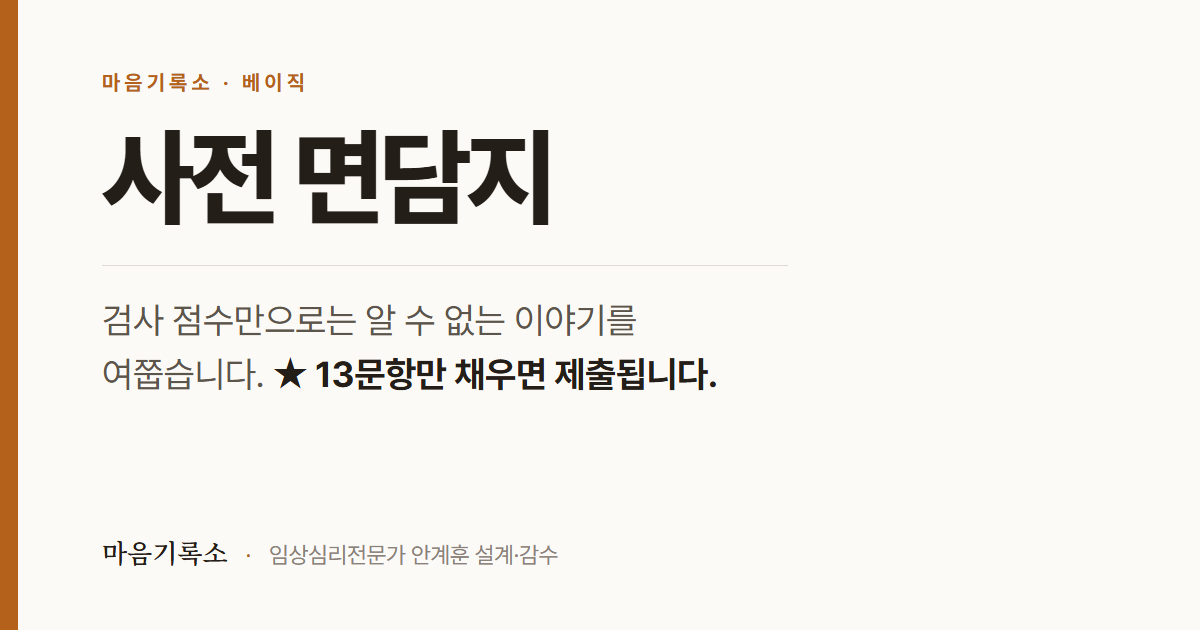
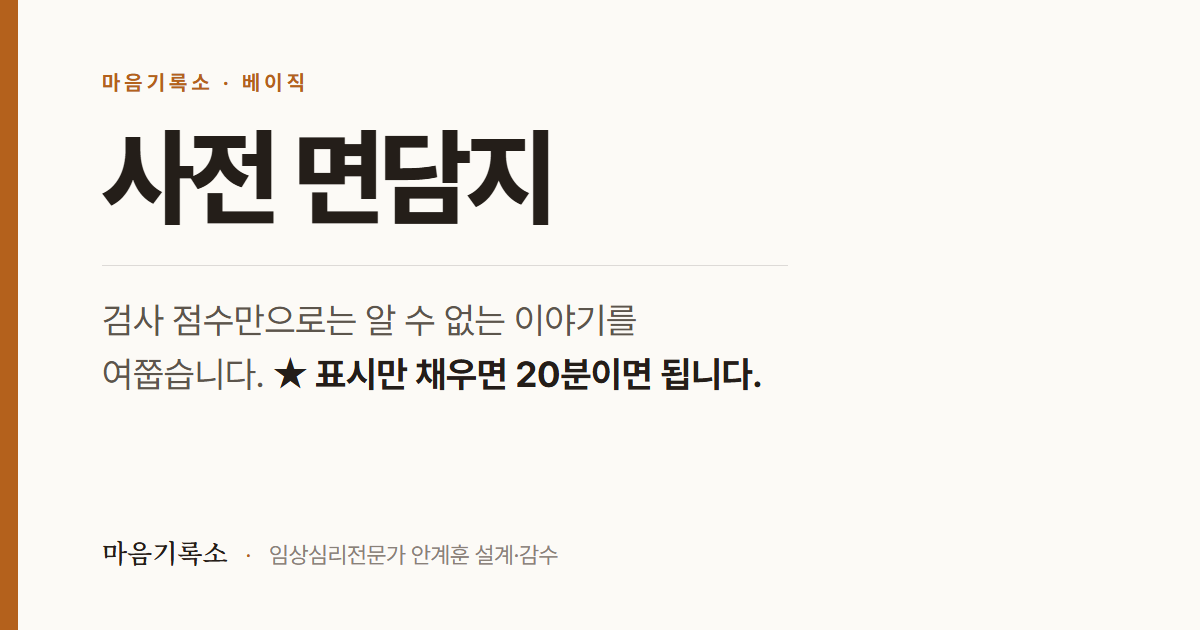
사전 면담지 폼: 06 파트 미표시 버그 수정 + 필수 13→33 증량
버그 2건
- .reveal 애니메이션 제거: opacity:0 이 기본값이라 IntersectionObserver 가
  안 돌면 문항이 통째로 안 보였다. F파트 카드 6528px vs 폰 화면 700px 라
  threshold .12(면적 12%)를 영원히 못 채워 06 파트 전체가 투명하게 남았다.
  임계값만 고치면 인앱브라우저·저사양 폰에서 재발하므로 애니메이션 자체를 껐다.
- C3-7·D10 minlen 20 → 10: helper 가 그대로 적으라고 시킨 문장이
  각각 18자·13자라 시킨 대로 쓰면 제출이 차단됐다.

필수 문항 13 → 33 (긴 서술형은 13개 그대로, 늘어난 20개는 클릭·한 줄)
- 기본 정보 승격: A1-2 생년월일 · A1-3 성별 · A1-4 기관 · A2-1 형제
  · A2-2 동거가족 · A3-1 관계. 나이 없이는 맞춤 책을 쓸 수 없는데 선택이었다.
- 라디오 승격: C3-1·C3-2·C3-5·C3-6·C3-8·D5·D13·F12·F15·F17
- 서술형 승격: D8·E2·E4(minlen 30) · F2(길이 강제 없음)
- 도달 불가 minlen 하향: C3-3·D1·E3 80 → 50

인라인 검증 추가 (blur 시점). 제출 때만 검사하면 65분 쓰고 몰아서 튕긴다.

helper 문구 3건 교체
- D11: 예시 사물 교체. 크레용·줄넘기는 이미 렌더된 샘플 삽화의 사물이라,
  아이마다 새로 그리는 유일한 그림이 예시로 수렴할 위험이 있었다.
- C3-7: 예시 2개로(하나는 안 예쁜 말), 지키지 못하던 약속 문구 하향.
- D10: 탈출로를 '없다고 적어라'에서 '대신 이걸 적어라'로.

안내 문구: 개수 대신 시간으로("★ 표시만 채우면 20분"). OG 카드 재생성.

Changed region(s): [[0.2467, 0.573, 0.6475, 0.6333]]

diff --git a/form/index.html b/form/index.html
@@ -6,14 +6,14 @@
 <title>사전 면담지 · 마음기록소</title>
 <link rel="canonical" href="https://doencourage.com/form/" />
 <meta name="robots" content="noindex, follow" />
-<meta name="description" content="검사 점수만으로는 알 수 없는 이야기를 여쭙습니다. ★ 13문항만 채우면 제출됩니다." />
+<meta name="description" content="검사 점수만으로는 알 수 없는 이야기를 여쭙습니다. ★ 표시만 채우면 20분이면 됩니다." />
 <!-- 카카오톡·SNS 링크 미리보기 카드 (noindex와 무관하게 동작) -->
 <meta property="og:type" content="website" />
 <meta property="og:site_name" content="마음기록소" />
 <meta property="og:locale" content="ko_KR" />
 <meta property="og:url" content="https://doencourage.com/form/" />
 <meta property="og:title" content="사전 면담지 · 마음기록소" />
-<meta property="og:description" content="검사 점수만으로는 알 수 없는 이야기를 여쭙습니다. ★ 13문항만 채우면 제출됩니다." />
+<meta property="og:description" content="검사 점수만으로는 알 수 없는 이야기를 여쭙습니다. ★ 표시만 채우면 20분이면 됩니다." />
 <meta property="og:image" content="https://doencourage.com/images/og-form.png" />
 <meta property="og:image:width" content="1200" />
 <meta property="og:image:height" content="630" />
@@ -372,7 +372,13 @@ fieldset{border:none}
 }
 
 /* ===== reveal ===== */
-.reveal{opacity:0; transform:translateY(12px); transition:opacity .7s var(--ease), transform .7s var(--ease)}
+/* 폼에서는 등장 애니메이션을 쓰지 않는다 (2026-07-28).
+   opacity:0 을 기본값으로 두면 IntersectionObserver 가 어떤 이유로든 안 돌 때
+   문항이 통째로 안 보인다. 실제 사고: F파트 카드가 6528px 라 폰 화면(700px)으로는
+   threshold .12 를 영원히 못 채워 06 파트 전체가 투명하게 남았다.
+   설문에서 페이드인의 값어치보다 '안 보이는 폼'의 위험이 훨씬 크다.
+   JS(setupReveal)는 그대로 둬도 무해하다 — .in 이 붙어도 결과가 같다. */
+.reveal{opacity:1; transform:none}
 .reveal.in{opacity:1; transform:none}
 
 @media (max-width:520px){
@@ -607,7 +613,7 @@ function requiredFieldId(){ return respondentType === 'self_adult' ? 'P1-1' : 'A
 function respondentName(flat){ return (flat && flat[requiredFieldId()]) || ''; }
 
 /* ---- 폼 스키마 (양육자용) ---- */
-const SCHEMA_GUARDIAN = {"intro": {"title": "베이직 사전 면담 질문지", "subtitle": "부모(주양육자) 1인이 자녀에 대해 작성하는 사전 비대면 면담 질문지입니다.", "guidance": ["총 75문항(★ 필수 13 · 선택 62), 약 65분이 소요됩니다. 한 번에 다 쓰지 않으셔도 돼요 — 중간 저장이 됩니다.", "가능하면 삼성인터넷·크롬·사파리 같은 브라우저에서, 한 기기·한 곳에서 끝까지 작성해 주세요. 중간에 닫아도 같은 브라우저로 다시 열면 이어서 쓸 수 있어요.", "★ 필수 문항은 책의 뼈대가 됩니다. 꼭 채워 주세요.", "나머지는 선택이지만, 많이 적어 주실수록 책이 깊어집니다.", "서술형은 3~5문장, 길이보다 구체적인 장면 묘사가 중요합니다. 완벽하게 쓰지 않으셔도 됩니다."]}, "parts": [{"id": "A", "title": "기본 정보", "intro": "", "fields": [{"id": "A0", "label": "개인정보 수집·이용 동의 — 적어 주신 내용과 자녀 정보는 맞춤 책 제작과 해석 상담 목적에만 사용하고, 외부에 공개·공유하지 않으며, 제작 완료 후 요청하시면 파기합니다.", "type": "radio", "required": true, "options": ["동의합니다"]}, {"id": "A1-1", "label": "자녀의 이름을 적어 주세요.", "type": "text", "required": true}, {"id": "A1-2", "label": "자녀의 출생연월일을 적어 주세요.", "type": "text", "required": false, "helper": "(예: 2018년 5월 5일)"}, {"id": "A1-3", "label": "자녀의 성별을 알려 주세요.", "type": "radio", "required": false, "options": ["남", "여"]}, {"id": "A1-4", "label": "현재 다니고 있는 기관을 알려 주세요.", "type": "text", "required": false, "helper": "(예: ○○초등학교 2학년 / ○○어린이집 / ○○유치원 / 미취학 / 가정보육)"}, {"id": "A2-1", "label": "자녀의 형제자매 관계를 알려 주세요.", "type": "text", "required": false, "helper": "(예: 외동 / 첫째, 5살 동생 있음 / 둘째, 8살 형 있음)"}, {"id": "A2-2", "label": "현재 자녀와 함께 거주하시는 분들을 적어 주세요.", "type": "text", "required": false, "helper": "(예: 아빠·엄마·자녀 / 엄마·자녀 / 엄마·자녀·외할머니)"}, {"id": "A3-1", "label": "본 질문지를 작성하시는 분은 자녀와 어떤 관계이신가요?", "type": "relation", "required": false, "options": ["어머니", "아버지", "그 외"]}, {"id": "A3-2", "label": "자녀와 함께 보내는 시간이 일주일에 대략 몇 시간 정도 되시나요?", "type": "text", "required": false}]}, {"id": "B", "title": "검사 동기와 기대", "intro": "검사실 문을 두드리신 마음을 들려주세요.", "fields": [{"id": "B1", "label": "오늘 검사를 받으시려는 가장 큰 이유 또는 자녀에 대한 현재의 고민은 무엇인가요?", "type": "textarea", "required": true, "helper": "(서술형, 3~5문장)", "minlen": 40}, {"id": "B2", "label": "이 검사를 통해 가장 알고 싶으신 것 한 가지를 꼽는다면 무엇인가요?", "type": "textarea", "required": false, "helper": "(서술형, 1~2문장)"}, {"id": "B3", "label": "자녀를 떠올렸을 때 부모님 마음에 가장 자주 떠오르는 단어 세 개를 적어 주세요.", "type": "words3", "required": false, "helper": "(예: 사랑스러움, 걱정, 미안함, 기특함, 답답함 등)"}, {"id": "B4", "label": "급변하는 세상 속에서도 자녀가 자신만의 중심을 잃지 않고 살아가기 위해, 부모님이 가장 길러 주고 싶은 자녀 내면의 힘이나 가치는 무엇인가요?", "type": "textarea", "required": false, "helper": "(서술형, 1~3문장)"}]}, {"id": "C", "title": "발달사·기질 단서", "intro": "자녀의 어릴 때부터 지금까지의 모습을 짧게 들려주세요.", "fields": [{"id": "C1-1", "label": "자녀가 갓난아기였을 때 어떤 아기였나요?", "type": "textarea", "required": false, "helper": "(예: 잘 잤다, 자주 깼다, 순했다, 예민했다 등) (서술형, 2~3문장)"}, {"id": "C1-2", "label": "새로운 사람·새로운 환경에 처음 노출되었을 때 어떻게 반응했나요?", "type": "textarea", "required": false, "helper": "(서술형, 1~2문장)"}, {"id": "C2-1", "label": "걷기 시작하면서 자녀의 활동성은 어떠했나요?", "type": "textarea", "required": false, "helper": "(예: 한자리에 가만히 못 있는 아이, 한 가지를 오래 들여다보는 아이, 둘이 섞인 아이 등) (서술형, 1~2문장)"}, {"id": "C2-2", "label": "처음 어린이집·놀이방 같은 곳에 갔을 때, 어떤 적응 패턴을 보였나요?", "type": "textarea", "required": false, "helper": "(예: 첫날부터 잘 어울림, 한 달쯤 운 후 적응, 지금도 가끔 어려움 등) (서술형, 2~3문장)"}, {"id": "C3-1", "label": "새로운 장소에 가거나 낯선 사람을 만날 때, 자녀의 첫 반응은 주로 어떤가요?", "type": "radio", "required": false, "options": ["호기심을 보이며 적극적으로 다가가는 편", "잠시 살펴본 후 자기 페이스로 다가가는 편", "충분히 관찰하며 신중하게 움직이는 편", "부모 곁에서 한참 머물다가 천천히 들어가는 편"], "followupTextarea": true, "followupHelper": "추가로 떠오르는 장면이 있다면 적어 주세요"}, {"id": "C3-2", "label": "무언가 잘 안 풀리거나 어려운 문제에 부딪혔을 때, 자녀는 보통 어떻게 그 상황을 지나가나요?", "type": "radio", "required": false, "options": ["끝까지 해보려 함", "짜증을 내거나 던져버림", "부모에게 대신 해 달라고 함", "우는 등 감정 표현 후 다시 시도", "슬쩍 다른 것으로 옮겨 감"], "followupTextarea": true, "followupHelper": "가장 최근에 본 장면 한 가지를 묘사해 주세요"}, {"id": "C3-3", "label": "주변 사람들의 기분이나 표정 변화를 자녀가 얼마나 빨리 알아채나요? 누군가의 기분 때문에 자녀가 자기 말이나 행동을 바꾼 가장 최근의 장면을 하나 들려주세요.", "type": "textarea", "required": true, "helper": "(서술형, 2~3문장)", "minlen": 80}, {"id": "C3-4", "label": "자녀가 \"내가 할 거야!\"라고 고집을 부리며 스스로 선택하고 책임지려 하는 순간은 주로 언제인가요?", "type": "textarea", "required": false, "helper": "(서술형, 1~2문장)"}, {"id": "C3-5", "label": "또래 친구들과 어울릴 때 자녀는 주로 어떤 모습을 보이나요?", "type": "radio", "required": false, "options": ["주도적으로 이끄는 편", "친구의 의견을 잘 따르는 편", "소수의 친구와 깊이 지내는 편", "혼자 노는 것을 더 편안해하는 편", "상황에 따라 달라짐"], "followupTextarea": true, "followupHelper": "가장 최근의 친구 관계 모습을 한 장면 묘사해 주세요"}, {"id": "C3-6", "label": "자녀의 감정 표현 방식은 어떤 편인가요?", "type": "radio", "required": false, "options": ["솔직하게 말로 표현하는 편", "표정으로 드러나는 편", "화내거나 우는 등 폭발적인 편", "안으로 삼키는 편", "상황에 따라 다름"], "followupTextarea": true, "followupHelper": "떠오르는 장면이 있으면 한 줄 더 적어 주세요 (선택)"}, {"id": "C3-7", "label": "자녀가 자주 하는 말이나 입버릇, 그 아이만의 독특한 표현이 있다면 들려주세요.", "type": "textarea", "required": true, "helper": "(★ 아이가 실제로 한 말을 따옴표 안에 그대로 적어 주세요. 예: \"엄마, 이건 내가 정할 거야.\" — 이 말이 책 속에 활자로 들어갑니다)", "minlen": 20}, {"id": "C3-8", "label": "자녀가 친구나 동생이 속상해하거나 곤란해할 때 어떻게 반응하나요?", "type": "radio", "required": false, "options": ["위로하거나 도와주는 편", "자기 것을 양보하는 편", "상황을 잘 모르거나 무관심한 편", "상황에 따라 다름"], "followupTextarea": true, "followupHelper": "가장 최근의 한 장면을 묘사해 주세요"}, {"id": "C3-9", "label": "자녀가 자연·하늘·생명·죽음·상상 속 세계 같은 '눈에 보이지 않는 큰 것'에 빠져들거나, 깊은 질문(예: 사람은 죽으면 어디 가?)을 하거나, 무언가에 푹 빠져 자기를 잊은 듯 보인 순간이 있나요?", "type": "textarea", "required": false, "helper": "(특별히 없으면 '없음'이라고 적으셔도 됩니다. 서술형, 2~3문장)"}]}, {"id": "D", "title": "흥미·재능의 단서", "intro": "", "fields": [{"id": "D1", "label": "자녀가 일상에서 무엇을 할 때 가장 즐거워하며, 어떤 활동이나 주제에 시간 가는 줄 모르고 빠져드나요?", "type": "textarea", "required": true, "helper": "(서술형, 3~4문장 — 구체적 장면 묘사 권장)", "minlen": 80}, {"id": "D2", "label": "자녀가 가장 좋아하는 책이나 콘텐츠(TV, 유튜브, 게임 등)는 무엇인가요? 어떤 점이 좋아 보이시나요?", "type": "textarea", "required": false, "helper": "(서술형, 2~3문장)"}, {"id": "D4", "label": "자녀가 스스로 무언가를 만들어 내는 걸 좋아하나요? 그림·글·노래·만들기·발표 중 어디에서 가장 신이 나는지, 최근 한 장면을 들려주세요.", "type": "textarea", "required": false, "helper": "(서술형, 2~3문장)"}, {"id": "D12", "label": "물건을 색·크기·순서대로 줄 세우거나 나누고 정리하는 것 자체를 즐기는 편인가요? 모으는 것(스티커·카드·돌 등)이 있고, 자기만의 보관 규칙이 있나요?", "type": "textarea", "required": false, "helper": "(특별히 없으면 '없음'이라고 적으셔도 됩니다. 서술형, 1~2문장)"}, {"id": "D13", "label": "장난감이 고장 나거나 새 물건이 생기면, 자녀는 보통 어떻게 하나요?", "type": "radio", "required": false, "options": ["직접 뜯어보고 만지며 원리를 알아보려 한다", "설명서나 어른의 도움을 먼저 찾는다", "잘 만지지 않는 편이다", "상황에 따라 다르다"], "followupTextarea": true, "followupHelper": "떠오르는 장면이 있으면 한 줄 더 (선택)"}, {"id": "D14", "label": "집이나 기관에서 자녀에게 자주 주어지는 활동과, 아직 거의 접할 기회가 없었던 활동을 각각 적어 주세요.", "type": "textarea", "required": false, "helper": "(자주 접한 것과 기회가 적었던 것을 나눠 적어 주세요. '관심 없는 것'과 '해 볼 기회가 없던 것'을 구분하기 위한 질문입니다. 서술형, 1~2문장)"}, {"id": "D5", "label": "자녀가 질문을 많이 하는 편인가요? 어떤 종류의 질문을 자주 하나요?", "type": "radio", "required": false, "options": ["'왜?' — 원리가 궁금한 질문이 많음", "'어떻게?' — 방법이 궁금한 질문이 많음", "'누가?' — 사람이 궁금한 질문이 많음", "여러 종류를 골고루 많이 함", "질문은 거의 안 하는 편"], "followupTextarea": true, "followupHelper": "기억에 남는 질문이 있으면 한 줄 더 적어 주세요 (선택)"}, {"id": "D6", "label": "자녀가 혼자 있는 시간과 사람들과 함께 있는 시간 중 어느 쪽에서 더 에너지를 얻는 것 같으신가요?", "type": "textarea", "required": false, "helper": "(서술형, 2~3문장)"}, {"id": "D7", "label": "어릴 때부터 지금까지 자녀가 꾸준히 좋아한 영역이 있다면 무엇인가요? 시간이 지나며 시들해진 영역이 있다면 그것은 무엇인가요?", "type": "textarea", "required": false, "helper": "(서술형, 2~3문장)"}, {"id": "D8", "label": "자녀의 숨겨진 재능 또는 남들은 잘 못 보는 강점이 있다면 무엇인가요?", "type": "textarea", "required": false, "helper": "(서술형, 2~3문장)"}, {"id": "D9", "label": "자녀가 친구들 사이에서 새로운 놀이나 활동을 먼저 제안하거나, 무리를 이끌거나, 사람을 설득해 움직이려 한 적이 있나요? 가장 최근 장면 하나를 묘사해 주세요.", "type": "textarea", "required": false, "helper": "(서술형, 2~3문장)"}, {"id": "D10", "label": "자녀가 '커서 ○○이 되고 싶다' 또는 '이런 걸 해 보고 싶다'고 말한 적이 있다면, 그 말과 그때 상황을 들려주세요.", "type": "textarea", "required": true, "helper": "(★ 아이의 말을 따옴표로 그대로. 예: \"나 커서 빵 만드는 사람 될래\" — 없었다면 \"아직 그런 말은 없었어요\"라고 적어 주세요)", "minlen": 20}, {"id": "D11", "label": "자녀 하면 가장 먼저 떠오르는 물건 두세 가지를 적어 주세요. 각각 짧은 사연도 한 줄씩 덧붙여 주세요.", "type": "textarea", "required": true, "minlen": 40, "helper": "(★ 예: 몽당해진 크레용 — 매일 그림을 그려서 / 줄넘기 줄 — 울면서도 손에서 놓지 않아서. 이 물건들이 책 첫머리의 아이만의 그림이 됩니다)"}]}, {"id": "E", "title": "일상의 갈등·통하는 순간", "intro": "구체적 장면 묘사가 가장 중요한 영역입니다.", "fields": [{"id": "E1", "label": "부모님과 자녀가 '정말 잘 통한다'고 느끼는 순간은 언제인가요?", "type": "textarea", "required": false, "helper": "(서술형, 3~4문장 — 구체적 장면 하나를 묘사해 주세요)"}, {"id": "E2", "label": "반대로 '아이를 이해하기가 참 어렵다'고 느끼는 순간은 언제인가요?", "type": "textarea", "required": false, "helper": "(서술형, 3~4문장 — 구체적 장면 하나를 묘사해 주세요)"}, {"id": "E3", "label": "최근 한 달 안에 자녀와 부딪혔던 갈등 장면 중 가장 자주 반복되는 패턴 한 가지를 묘사해 주세요.", "type": "textarea", "required": true, "helper": "(서술형, 4~6문장 — 누가 무엇을 했고, 어떻게 끝났는지까지)", "minlen": 80}, {"id": "E12", "label": "그렇게 부딪힌 뒤, 화해는 보통 어떻게 이뤄지나요? 누가 먼저 다가가고, 아이는 어떻게 풀리나요?", "type": "textarea", "required": false, "helper": "(서술형, 2~3문장 — 갈등이 어떻게 마무리되는지)"}, {"id": "E4", "label": "최근에 자녀의 행동 때문에 단호하게 규칙을 가르치거나 훈육하셨던 구체적인 상황은 무엇이었나요? 그때 자녀의 반응은 어떠했나요?", "type": "textarea", "required": false, "helper": "(서술형, 3~5문장)"}, {"id": "E5", "label": "자녀를 칭찬해 주실 때 어떤 표현을 자주 쓰시나요? 그 칭찬에 자녀가 어떻게 반응하나요?", "type": "textarea", "required": true, "helper": "(서술형, 2~3문장)", "minlen": 40}, {"id": "E6", "label": "자녀가 울 때 부모님은 보통 어떻게 반응하시나요?", "type": "textarea", "required": false, "helper": "(서술형, 2~3문장)"}, {"id": "E7", "label": "자녀가 부모님께 의지하는 순간과 부모님을 밀어내려는 순간은 각각 언제인가요?", "type": "textarea", "required": false, "helper": "(서술형, 2~3문장)"}, {"id": "E8", "label": "자녀가 학교(어린이집·유치원)에서 돌아온 직후 어떤 모습인가요? 그날 있었던 일을 잘 이야기하나요?", "type": "textarea", "required": false, "helper": "(서술형, 2~3문장)"}, {"id": "E9", "label": "자녀가 잠들기 전의 모습은 어떤가요? 잠들기 어려워하는 편인가요? 어떤 의식이나 루틴이 있나요?", "type": "textarea", "required": false, "helper": "(서술형, 2~3문장)"}, {"id": "E10", "label": "자녀의 가장 큰 두려움 또는 가장 신경 쓰는 것이 무엇이라고 보시나요?", "type": "textarea", "required": false, "helper": "(서술형, 2~3문장)"}, {"id": "E11", "label": "자녀에게 '안 된다'고 하실 때, 이유를 함께 설명해 주시는 편인가요, 우선 멈추게 한 뒤 나중에 이야기하시는 편인가요? 최근 장면 하나를 들려주세요.", "type": "textarea", "required": false, "helper": "(둘 다 자연스러운 방식입니다. 서술형, 2~3문장)"}]}, {"id": "F", "title": "양육 환경과 부모 자신", "intro": "여기서부터는 잠깐 아이가 아니라 부모님 이야기입니다. 부모님의 기질과 양육 방식은 아이가 자라온 배경이자, 아이 책의 한 축이 됩니다. 이번 검사에서 부모님께서도 기질 검사(TCI)·양육태도 검사(PAT-2)를 받으셨고, 아래 질문은 그 결과를 함께 읽기 위한 것입니다. 좋은 답·나쁜 답은 없으니 솔직하게 적어 주실수록 해석이 정확해집니다.", "fields": [{"id": "F1", "label": "자녀가 태어났을 때 부모님의 마음은 어떠셨나요?", "type": "textarea", "required": false, "subgroup": "양육 환경", "helper": "(예: 첫 만남의 감정, 양육에 대한 다짐, 걱정, 기대 등) (서술형, 2~3문장)"}, {"id": "F2", "label": "부모님 자신이 자라온 가정의 분위기는 어떠셨나요? 어머님(또는 아버님)이 부모님으로부터 받았던 양육 방식이 현재 자녀를 키우시는 방식에 어떻게 영향을 주고 있다고 보시나요?", "type": "textarea", "required": false, "subgroup": "양육 환경", "helper": "(서술형, 3~5문장. 부담되시면 닮은 점 한 가지만 적으셔도 됩니다)"}, {"id": "F3", "label": "양육에서 가장 자신 있는 부분은 무엇인가요?", "type": "textarea", "required": false, "subgroup": "양육 환경", "helper": "(서술형, 1~2문장)"}, {"id": "F4", "label": "양육에서 가장 어렵거나 자신 없는 부분은 무엇인가요?", "type": "textarea", "required": false, "subgroup": "양육 환경", "helper": "(서술형, 1~2문장)"}, {"id": "F5", "label": "배우자(또는 공동 양육자)와 양육관이 가장 잘 맞는 영역과 가장 자주 부딪히는 영역은 각각 무엇인가요?", "type": "textarea", "required": false, "subgroup": "양육 환경", "helper": "(서술형, 2~3문장. 한부모 가정이시거나 해당 사항이 없으시면 '해당 없음'으로 적어 주세요)"}, {"id": "F6", "label": "자녀에게 가장 자주 사용하시는 칭찬의 말 한두 마디를 적어 주세요.", "type": "text", "required": true, "subgroup": "양육 환경", "helper": "(예: \"잘했어\", \"역시 우리 ○○\", \"엄마는 네가 자랑스러워\" 등)", "minlen": 5}, {"id": "F7", "label": "자녀에게 가장 자주 사용하시는 훈육의 말 한두 마디를 적어 주세요.", "type": "text", "required": true, "subgroup": "양육 환경", "helper": "(예: \"또?\", \"엄마가 몇 번 말했어\", \"네가 알아서 해\" 등)", "minlen": 5}, {"id": "F8", "label": "자녀와 함께 보내는 시간 중 부모님이 가장 행복하다고 느끼시는 순간은 언제인가요?", "type": "textarea", "required": false, "subgroup": "양육 환경", "helper": "(서술형, 2~3문장)"}, {"id": "F9", "label": "양육에 대해 누구의 영향을 가장 많이 받으시나요?", "type": "textarea", "required": false, "subgroup": "양육 환경", "helper": "(예: 친정 어머니, 시어머니, 배우자, 책, 유튜브, 친구, SNS 등) (서술형, 1~2문장)"}, {"id": "F10", "label": "부모님 자신을 위한 자기돌봄의 시간은 일주일에 어느 정도 가지시나요? 어떤 활동인가요?", "type": "textarea", "required": false, "subgroup": "양육 환경", "helper": "(서술형, 1~2문장)"}, {"id": "F11", "label": "부모님 자신은 어린 시절 어떤 아이였다고 기억하시나요? 지금의 자녀와 가장 닮은 점 하나와 가장 다른 점 하나를 꼽아 주세요.", "type": "textarea", "required": false, "subgroup": "부모 자신의 모습", "helper": "(서술형, 3~5문장)"}, {"id": "F12", "label": "새로운 일(이사, 이직, 새 모임, 새 취미 등) 앞에서 부모님 자신은 보통 어떻게 움직이시는 편인가요?", "type": "radio", "required": false, "subgroup": "부모 자신의 모습", "options": ["일단 부딪혀 보는 편", "충분히 알아본 뒤 움직이는 편", "웬만하면 익숙한 쪽을 지키는 편"], "followupTextarea": true, "followupHelper": "최근의 예가 떠오르면 한 줄 더 적어 주세요 (선택)"}, {"id": "F13", "label": "부모님 자신은 한번 시작한 일을 끝까지 밀고 가시는 편인가요, 상황에 따라 빠르게 방향을 바꾸시는 편인가요? 최근의 예를 하나 들어 주세요.", "type": "textarea", "required": false, "subgroup": "부모 자신의 모습", "helper": "(서술형, 2~3문장)"}, {"id": "F14", "label": "자녀의 하루(학교에서 있었던 일, 친구 관계, 그날의 기분)를 평소 어느 정도까지 알고 계신가요? 주로 어떤 방법으로 알게 되시나요?", "type": "textarea", "required": false, "subgroup": "부모 자신의 모습", "helper": "(서술형, 2~3문장)"}, {"id": "F15", "label": "자녀에 대한 기대를 주로 어떻게 전하시나요?", "type": "radio", "required": false, "subgroup": "부모 자신의 모습", "options": ["말로 직접 전한다", "칭찬에 얹어서 전한다", "표정·분위기로 전한다", "거의 드러내지 않는다"], "followupTextarea": true, "followupHelper": "최근에 기대를 전했던 장면을 한 줄 더 적어 주세요 (선택)"}, {"id": "F17", "label": "자녀 때문에 화가 났을 때, 부모님의 화는 주로 어떤 모습인가요?", "type": "radio", "required": false, "subgroup": "부모 자신의 모습", "options": ["목소리가 커진다", "말이 없어진다", "잔소리가 길어진다", "그 자리를 잠시 뜬다"], "followupTextarea": true, "followupHelper": "떠오르는 장면이 있으면 한 줄 더 적어 주세요 (선택)"}, {"id": "F18", "label": "중요한 결정이나 새로운 일을 앞두고 '혹시 잘못되면 어쩌나' 하는 걱정이 부모님을 한참 붙잡았던 최근 순간이 있나요? 그때 어떤 생각이 오갔고, 자녀에게도 비슷한 조심성을 권하시는 편인지 함께 들려주세요.", "type": "textarea", "required": false, "subgroup": "부모 자신의 모습", "helper": "(서술형, 2~3문장)"}, {"id": "F19", "label": "다른 사람(가족·다른 부모·선생님 등)의 반응이나 칭찬·실망에 부모님 자신이 얼마나 신경 쓰이는 편인가요? 누군가의 기분이나 시선 때문에 양육 방식이나 말을 바꾼 최근 장면이 있다면 들려주세요.", "type": "textarea", "required": false, "subgroup": "부모 자신의 모습", "helper": "(서술형, 2~3문장)"}, {"id": "F20", "label": "부모님 자신은 무언가를 스스로 정하고 끝까지 책임지는 편인가요, 아니면 함께 정하거나 누군가에게 맡기고 싶을 때가 있나요? 양육이든 일이든 최근의 예를 하나 들어 주세요.", "type": "textarea", "required": false, "subgroup": "부모 자신의 모습", "helper": "(서술형, 2~3문장)"}, {"id": "F21", "label": "자녀가 스스로 하려던 일(옷 고르기, 숙제 방식, 친구 문제 등)을 원치 않는데도 부모님이 먼저 챙기거나 대신 정해 주게 된 최근 장면이 있나요? 그때 자녀의 반응은 어땠나요?", "type": "textarea", "required": false, "subgroup": "부모 자신의 모습", "helper": "(누구에게나 있는 일입니다. 서술형, 2~3문장)"}, {"id": "F22", "label": "아이가 보는 앞에서 실수했거나 곤란해진 사람(가게 점원, 다른 아이 등)을 대할 때, 너그럽게 넘어가는 편인가요, 옳고 그름을 분명히 짚는 편인가요? 최근 장면 하나를 들려주세요.", "type": "textarea", "required": false, "subgroup": "부모 자신의 모습", "helper": "(어느 쪽도 좋고 나쁨이 없습니다. 서술형, 2~3문장)"}, {"id": "F23", "label": "돈이나 성적처럼 눈에 보이는 것 말고, 자녀가 자라며 꼭 이어받았으면 하는 '보이지 않는 가치'가 있나요(예: 정직, 신앙, 자연을 아끼는 마음, 약자를 돕는 태도)? 평소 그걸 어떻게 전하시는지 장면으로 들려주세요.", "type": "textarea", "required": false, "subgroup": "부모 자신의 모습", "helper": "(서술형, 2~3문장)"}]}, {"id": "G", "title": "자유 서술", "intro": "위 질문에 담기지 못한 이야기를 자유롭게 들려주세요.", "fields": [{"id": "G1", "label": "자녀에 대해 검사자가 꼭 알았으면 하는 것 한 가지를 적어 주세요.", "type": "textarea", "required": true, "helper": "(서술형, 자유 분량)", "minlen": 20}, {"id": "G2", "label": "검사 결과 책자에 어떤 내용이 담기기를 가장 기대하시나요?", "type": "textarea", "required": false, "helper": "(서술형, 자유 분량)"}]}]};
+const SCHEMA_GUARDIAN = {"intro": {"title": "베이직 사전 면담 질문지", "subtitle": "부모(주양육자) 1인이 자녀에 대해 작성하는 사전 비대면 면담 질문지입니다.", "guidance": ["총 75문항입니다. ★ 표시 33문항이 필수인데 그중 20개는 고르거나 한 줄 적는 것이라 20분이면 넘어갑니다. 다 쓰시면 약 65분입니다. 한 번에 다 쓰지 않으셔도 돼요 — 중간 저장이 됩니다.", "가능하면 삼성인터넷·크롬·사파리 같은 브라우저에서, 한 기기·한 곳에서 끝까지 작성해 주세요. 중간에 닫아도 같은 브라우저로 다시 열면 이어서 쓸 수 있어요.", "★ 필수 문항은 책의 뼈대가 됩니다. 꼭 채워 주세요.", "나머지는 선택이지만, 많이 적어 주실수록 책이 깊어집니다.", "서술형은 3~5문장, 길이보다 구체적인 장면 묘사가 중요합니다. 완벽하게 쓰지 않으셔도 됩니다."]}, "parts": [{"id": "A", "title": "기본 정보", "intro": "", "fields": [{"id": "A0", "label": "개인정보 수집·이용 동의 — 적어 주신 내용과 자녀 정보는 맞춤 책 제작과 해석 상담 목적에만 사용하고, 외부에 공개·공유하지 않으며, 제작 완료 후 요청하시면 파기합니다.", "type": "radio", "required": true, "options": ["동의합니다"]}, {"id": "A1-1", "label": "자녀의 이름을 적어 주세요.", "type": "text", "required": true}, {"id": "A1-2", "label": "자녀의 출생연월일을 적어 주세요.", "type": "text", "required": true, "helper": "(예: 2018년 5월 5일)"}, {"id": "A1-3", "label": "자녀의 성별을 알려 주세요.", "type": "radio", "required": true, "options": ["남", "여"]}, {"id": "A1-4", "label": "현재 다니고 있는 기관을 알려 주세요.", "type": "text", "required": true, "helper": "(예: ○○초등학교 2학년 / ○○어린이집 / ○○유치원 / 미취학 / 가정보육)"}, {"id": "A2-1", "label": "자녀의 형제자매 관계를 알려 주세요.", "type": "text", "required": true, "helper": "(예: 외동 / 첫째, 5살 동생 있음 / 둘째, 8살 형 있음)"}, {"id": "A2-2", "label": "현재 자녀와 함께 거주하시는 분들을 적어 주세요.", "type": "text", "required": true, "helper": "(예: 아빠·엄마·자녀 / 엄마·자녀 / 엄마·자녀·외할머니)"}, {"id": "A3-1", "label": "본 질문지를 작성하시는 분은 자녀와 어떤 관계이신가요?", "type": "relation", "required": true, "options": ["어머니", "아버지", "그 외"]}, {"id": "A3-2", "label": "자녀와 함께 보내는 시간이 일주일에 대략 몇 시간 정도 되시나요?", "type": "text", "required": false}]}, {"id": "B", "title": "검사 동기와 기대", "intro": "검사실 문을 두드리신 마음을 들려주세요.", "fields": [{"id": "B1", "label": "오늘 검사를 받으시려는 가장 큰 이유 또는 자녀에 대한 현재의 고민은 무엇인가요?", "type": "textarea", "required": true, "helper": "(서술형, 3~5문장)", "minlen": 40}, {"id": "B2", "label": "이 검사를 통해 가장 알고 싶으신 것 한 가지를 꼽는다면 무엇인가요?", "type": "textarea", "required": false, "helper": "(서술형, 1~2문장)"}, {"id": "B3", "label": "자녀를 떠올렸을 때 부모님 마음에 가장 자주 떠오르는 단어 세 개를 적어 주세요.", "type": "words3", "required": false, "helper": "(예: 사랑스러움, 걱정, 미안함, 기특함, 답답함 등)"}, {"id": "B4", "label": "급변하는 세상 속에서도 자녀가 자신만의 중심을 잃지 않고 살아가기 위해, 부모님이 가장 길러 주고 싶은 자녀 내면의 힘이나 가치는 무엇인가요?", "type": "textarea", "required": false, "helper": "(서술형, 1~3문장)"}]}, {"id": "C", "title": "발달사·기질 단서", "intro": "자녀의 어릴 때부터 지금까지의 모습을 짧게 들려주세요.", "fields": [{"id": "C1-1", "label": "자녀가 갓난아기였을 때 어떤 아기였나요?", "type": "textarea", "required": false, "helper": "(예: 잘 잤다, 자주 깼다, 순했다, 예민했다 등) (서술형, 2~3문장)"}, {"id": "C1-2", "label": "새로운 사람·새로운 환경에 처음 노출되었을 때 어떻게 반응했나요?", "type": "textarea", "required": false, "helper": "(서술형, 1~2문장)"}, {"id": "C2-1", "label": "걷기 시작하면서 자녀의 활동성은 어떠했나요?", "type": "textarea", "required": false, "helper": "(예: 한자리에 가만히 못 있는 아이, 한 가지를 오래 들여다보는 아이, 둘이 섞인 아이 등) (서술형, 1~2문장)"}, {"id": "C2-2", "label": "처음 어린이집·놀이방 같은 곳에 갔을 때, 어떤 적응 패턴을 보였나요?", "type": "textarea", "required": false, "helper": "(예: 첫날부터 잘 어울림, 한 달쯤 운 후 적응, 지금도 가끔 어려움 등) (서술형, 2~3문장)"}, {"id": "C3-1", "label": "새로운 장소에 가거나 낯선 사람을 만날 때, 자녀의 첫 반응은 주로 어떤가요?", "type": "radio", "required": true, "options": ["호기심을 보이며 적극적으로 다가가는 편", "잠시 살펴본 후 자기 페이스로 다가가는 편", "충분히 관찰하며 신중하게 움직이는 편", "부모 곁에서 한참 머물다가 천천히 들어가는 편"], "followupTextarea": true, "followupHelper": "추가로 떠오르는 장면이 있다면 적어 주세요"}, {"id": "C3-2", "label": "무언가 잘 안 풀리거나 어려운 문제에 부딪혔을 때, 자녀는 보통 어떻게 그 상황을 지나가나요?", "type": "radio", "required": true, "options": ["끝까지 해보려 함", "짜증을 내거나 던져버림", "부모에게 대신 해 달라고 함", "우는 등 감정 표현 후 다시 시도", "슬쩍 다른 것으로 옮겨 감"], "followupTextarea": true, "followupHelper": "가장 최근에 본 장면 한 가지를 묘사해 주세요"}, {"id": "C3-3", "label": "주변 사람들의 기분이나 표정 변화를 자녀가 얼마나 빨리 알아채나요? 누군가의 기분 때문에 자녀가 자기 말이나 행동을 바꾼 가장 최근의 장면을 하나 들려주세요.", "type": "textarea", "required": true, "helper": "(서술형, 2~3문장)", "minlen": 50}, {"id": "C3-4", "label": "자녀가 \"내가 할 거야!\"라고 고집을 부리며 스스로 선택하고 책임지려 하는 순간은 주로 언제인가요?", "type": "textarea", "required": false, "helper": "(서술형, 1~2문장)"}, {"id": "C3-5", "label": "또래 친구들과 어울릴 때 자녀는 주로 어떤 모습을 보이나요?", "type": "radio", "required": true, "options": ["주도적으로 이끄는 편", "친구의 의견을 잘 따르는 편", "소수의 친구와 깊이 지내는 편", "혼자 노는 것을 더 편안해하는 편", "상황에 따라 달라짐"], "followupTextarea": true, "followupHelper": "가장 최근의 친구 관계 모습을 한 장면 묘사해 주세요"}, {"id": "C3-6", "label": "자녀의 감정 표현 방식은 어떤 편인가요?", "type": "radio", "required": true, "options": ["솔직하게 말로 표현하는 편", "표정으로 드러나는 편", "화내거나 우는 등 폭발적인 편", "안으로 삼키는 편", "상황에 따라 다름"], "followupTextarea": true, "followupHelper": "떠오르는 장면이 있으면 한 줄 더 적어 주세요 (선택)"}, {"id": "C3-7", "label": "자녀가 자주 하는 말이나 입버릇, 그 아이만의 독특한 표현이 있다면 들려주세요.", "type": "textarea", "required": true, "helper": "(★ 아이가 실제로 한 말을 따옴표 안에 그대로, 어떤 상황에서 나오는 말인지도 한 줄 적어 주세요. 예쁜 말이 아니어도 좋습니다. 예: \"엄마, 이건 내가 정할 거야\" / \"아 몰라, 됐어\")", "minlen": 10}, {"id": "C3-8", "label": "자녀가 친구나 동생이 속상해하거나 곤란해할 때 어떻게 반응하나요?", "type": "radio", "required": true, "options": ["위로하거나 도와주는 편", "자기 것을 양보하는 편", "상황을 잘 모르거나 무관심한 편", "상황에 따라 다름"], "followupTextarea": true, "followupHelper": "가장 최근의 한 장면을 묘사해 주세요"}, {"id": "C3-9", "label": "자녀가 자연·하늘·생명·죽음·상상 속 세계 같은 '눈에 보이지 않는 큰 것'에 빠져들거나, 깊은 질문(예: 사람은 죽으면 어디 가?)을 하거나, 무언가에 푹 빠져 자기를 잊은 듯 보인 순간이 있나요?", "type": "textarea", "required": false, "helper": "(특별히 없으면 '없음'이라고 적으셔도 됩니다. 서술형, 2~3문장)"}]}, {"id": "D", "title": "흥미·재능의 단서", "intro": "", "fields": [{"id": "D1", "label": "자녀가 일상에서 무엇을 할 때 가장 즐거워하며, 어떤 활동이나 주제에 시간 가는 줄 모르고 빠져드나요?", "type": "textarea", "required": true, "helper": "(서술형, 3~4문장 — 구체적 장면 묘사 권장)", "minlen": 50}, {"id": "D2", "label": "자녀가 가장 좋아하는 책이나 콘텐츠(TV, 유튜브, 게임 등)는 무엇인가요? 어떤 점이 좋아 보이시나요?", "type": "textarea", "required": false, "helper": "(서술형, 2~3문장)"}, {"id": "D4", "label": "자녀가 스스로 무언가를 만들어 내는 걸 좋아하나요? 그림·글·노래·만들기·발표 중 어디에서 가장 신이 나는지, 최근 한 장면을 들려주세요.", "type": "textarea", "required": false, "helper": "(서술형, 2~3문장)"}, {"id": "D12", "label": "물건을 색·크기·순서대로 줄 세우거나 나누고 정리하는 것 자체를 즐기는 편인가요? 모으는 것(스티커·카드·돌 등)이 있고, 자기만의 보관 규칙이 있나요?", "type": "textarea", "required": false, "helper": "(특별히 없으면 '없음'이라고 적으셔도 됩니다. 서술형, 1~2문장)"}, {"id": "D13", "label": "장난감이 고장 나거나 새 물건이 생기면, 자녀는 보통 어떻게 하나요?", "type": "radio", "required": true, "options": ["직접 뜯어보고 만지며 원리를 알아보려 한다", "설명서나 어른의 도움을 먼저 찾는다", "잘 만지지 않는 편이다", "상황에 따라 다르다"], "followupTextarea": true, "followupHelper": "떠오르는 장면이 있으면 한 줄 더 (선택)"}, {"id": "D14", "label": "집이나 기관에서 자녀에게 자주 주어지는 활동과, 아직 거의 접할 기회가 없었던 활동을 각각 적어 주세요.", "type": "textarea", "required": false, "helper": "(자주 접한 것과 기회가 적었던 것을 나눠 적어 주세요. '관심 없는 것'과 '해 볼 기회가 없던 것'을 구분하기 위한 질문입니다. 서술형, 1~2문장)"}, {"id": "D5", "label": "자녀가 질문을 많이 하는 편인가요? 어떤 종류의 질문을 자주 하나요?", "type": "radio", "required": true, "options": ["'왜?' — 원리가 궁금한 질문이 많음", "'어떻게?' — 방법이 궁금한 질문이 많음", "'누가?' — 사람이 궁금한 질문이 많음", "여러 종류를 골고루 많이 함", "질문은 거의 안 하는 편"], "followupTextarea": true, "followupHelper": "기억에 남는 질문이 있으면 한 줄 더 적어 주세요 (선택)"}, {"id": "D6", "label": "자녀가 혼자 있는 시간과 사람들과 함께 있는 시간 중 어느 쪽에서 더 에너지를 얻는 것 같으신가요?", "type": "textarea", "required": false, "helper": "(서술형, 2~3문장)"}, {"id": "D7", "label": "어릴 때부터 지금까지 자녀가 꾸준히 좋아한 영역이 있다면 무엇인가요? 시간이 지나며 시들해진 영역이 있다면 그것은 무엇인가요?", "type": "textarea", "required": false, "helper": "(서술형, 2~3문장)"}, {"id": "D8", "label": "자녀의 숨겨진 재능 또는 남들은 잘 못 보는 강점이 있다면 무엇인가요?", "type": "textarea", "required": true, "minlen": 30, "helper": "(서술형, 2~3문장)"}, {"id": "D9", "label": "자녀가 친구들 사이에서 새로운 놀이나 활동을 먼저 제안하거나, 무리를 이끌거나, 사람을 설득해 움직이려 한 적이 있나요? 가장 최근 장면 하나를 묘사해 주세요.", "type": "textarea", "required": false, "helper": "(서술형, 2~3문장)"}, {"id": "D10", "label": "자녀가 '커서 ○○이 되고 싶다' 또는 '이런 걸 해 보고 싶다'고 말한 적이 있다면, 그 말과 그때 상황을 들려주세요.", "type": "textarea", "required": true, "helper": "(★ 아이의 말을 따옴표로 그대로, 언제 어디서 나온 말인지도 한 줄 적어 주세요. 예: \"나 커서 빵 만드는 사람 될래\", 빵집 앞을 지나가다가. 아직 그런 말을 들어 보신 적이 없으면 대신 요즘 아이가 제일 하고 싶어 하는 놀이나 활동을 적어 주세요)", "minlen": 10}, {"id": "D11", "label": "자녀 하면 가장 먼저 떠오르는 물건 두세 가지를 적어 주세요. 각각 짧은 사연도 한 줄씩 덧붙여 주세요.", "type": "textarea", "required": true, "minlen": 40, "helper": "(★ 예: 학교 갈 때 꼭 챙기는 물통, 안 가져가면 하루 종일 신경 쓰여서. 손잡이가 벗겨진 야구 글러브, 비 오는 날에도 들고 나가서. 남들 눈엔 별것 아닌 물건일수록 좋습니다. 책 앞쪽에 들어갈 그림을 그릴 때 이 물건들을 재료로 씁니다)"}]}, {"id": "E", "title": "일상의 갈등·통하는 순간", "intro": "구체적 장면 묘사가 가장 중요한 영역입니다.", "fields": [{"id": "E1", "label": "부모님과 자녀가 '정말 잘 통한다'고 느끼는 순간은 언제인가요?", "type": "textarea", "required": false, "helper": "(서술형, 3~4문장 — 구체적 장면 하나를 묘사해 주세요)"}, {"id": "E2", "label": "반대로 '아이를 이해하기가 참 어렵다'고 느끼는 순간은 언제인가요?", "type": "textarea", "required": true, "minlen": 30, "helper": "(서술형, 3~4문장 — 구체적 장면 하나를 묘사해 주세요)"}, {"id": "E3", "label": "최근 한 달 안에 자녀와 부딪혔던 갈등 장면 중 가장 자주 반복되는 패턴 한 가지를 묘사해 주세요.", "type": "textarea", "required": true, "helper": "(서술형, 4~6문장 — 누가 무엇을 했고, 어떻게 끝났는지까지)", "minlen": 50}, {"id": "E12", "label": "그렇게 부딪힌 뒤, 화해는 보통 어떻게 이뤄지나요? 누가 먼저 다가가고, 아이는 어떻게 풀리나요?", "type": "textarea", "required": false, "helper": "(서술형, 2~3문장 — 갈등이 어떻게 마무리되는지)"}, {"id": "E4", "label": "최근에 자녀의 행동 때문에 단호하게 규칙을 가르치거나 훈육하셨던 구체적인 상황은 무엇이었나요? 그때 자녀의 반응은 어떠했나요?", "type": "textarea", "required": true, "minlen": 30, "helper": "(서술형, 3~5문장)"}, {"id": "E5", "label": "자녀를 칭찬해 주실 때 어떤 표현을 자주 쓰시나요? 그 칭찬에 자녀가 어떻게 반응하나요?", "type": "textarea", "required": true, "helper": "(서술형, 2~3문장)", "minlen": 40}, {"id": "E6", "label": "자녀가 울 때 부모님은 보통 어떻게 반응하시나요?", "type": "textarea", "required": false, "helper": "(서술형, 2~3문장)"}, {"id": "E7", "label": "자녀가 부모님께 의지하는 순간과 부모님을 밀어내려는 순간은 각각 언제인가요?", "type": "textarea", "required": false, "helper": "(서술형, 2~3문장)"}, {"id": "E8", "label": "자녀가 학교(어린이집·유치원)에서 돌아온 직후 어떤 모습인가요? 그날 있었던 일을 잘 이야기하나요?", "type": "textarea", "required": false, "helper": "(서술형, 2~3문장)"}, {"id": "E9", "label": "자녀가 잠들기 전의 모습은 어떤가요? 잠들기 어려워하는 편인가요? 어떤 의식이나 루틴이 있나요?", "type": "textarea", "required": false, "helper": "(서술형, 2~3문장)"}, {"id": "E10", "label": "자녀의 가장 큰 두려움 또는 가장 신경 쓰는 것이 무엇이라고 보시나요?", "type": "textarea", "required": false, "helper": "(서술형, 2~3문장)"}, {"id": "E11", "label": "자녀에게 '안 된다'고 하실 때, 이유를 함께 설명해 주시는 편인가요, 우선 멈추게 한 뒤 나중에 이야기하시는 편인가요? 최근 장면 하나를 들려주세요.", "type": "textarea", "required": false, "helper": "(둘 다 자연스러운 방식입니다. 서술형, 2~3문장)"}]}, {"id": "F", "title": "양육 환경과 부모 자신", "intro": "여기서부터는 잠깐 아이가 아니라 부모님 이야기입니다. 부모님의 기질과 양육 방식은 아이가 자라온 배경이자, 아이 책의 한 축이 됩니다. 이번 검사에서 부모님께서도 기질 검사(TCI)·양육태도 검사(PAT-2)를 받으셨고, 아래 질문은 그 결과를 함께 읽기 위한 것입니다. 좋은 답·나쁜 답은 없으니 솔직하게 적어 주실수록 해석이 정확해집니다.", "fields": [{"id": "F1", "label": "자녀가 태어났을 때 부모님의 마음은 어떠셨나요?", "type": "textarea", "required": false, "subgroup": "양육 환경", "helper": "(예: 첫 만남의 감정, 양육에 대한 다짐, 걱정, 기대 등) (서술형, 2~3문장)"}, {"id": "F2", "label": "부모님 자신이 자라온 가정의 분위기는 어떠셨나요? 어머님(또는 아버님)이 부모님으로부터 받았던 양육 방식이 현재 자녀를 키우시는 방식에 어떻게 영향을 주고 있다고 보시나요?", "type": "textarea", "required": true, "subgroup": "양육 환경", "helper": "(서술형, 3~5문장. 부담되시면 닮은 점 한 가지만 적으셔도 됩니다)"}, {"id": "F3", "label": "양육에서 가장 자신 있는 부분은 무엇인가요?", "type": "textarea", "required": false, "subgroup": "양육 환경", "helper": "(서술형, 1~2문장)"}, {"id": "F4", "label": "양육에서 가장 어렵거나 자신 없는 부분은 무엇인가요?", "type": "textarea", "required": false, "subgroup": "양육 환경", "helper": "(서술형, 1~2문장)"}, {"id": "F5", "label": "배우자(또는 공동 양육자)와 양육관이 가장 잘 맞는 영역과 가장 자주 부딪히는 영역은 각각 무엇인가요?", "type": "textarea", "required": false, "subgroup": "양육 환경", "helper": "(서술형, 2~3문장. 한부모 가정이시거나 해당 사항이 없으시면 '해당 없음'으로 적어 주세요)"}, {"id": "F6", "label": "자녀에게 가장 자주 사용하시는 칭찬의 말 한두 마디를 적어 주세요.", "type": "text", "required": true, "subgroup": "양육 환경", "helper": "(예: \"잘했어\", \"역시 우리 ○○\", \"엄마는 네가 자랑스러워\" 등)", "minlen": 5}, {"id": "F7", "label": "자녀에게 가장 자주 사용하시는 훈육의 말 한두 마디를 적어 주세요.", "type": "text", "required": true, "subgroup": "양육 환경", "helper": "(예: \"또?\", \"엄마가 몇 번 말했어\", \"네가 알아서 해\" 등)", "minlen": 5}, {"id": "F8", "label": "자녀와 함께 보내는 시간 중 부모님이 가장 행복하다고 느끼시는 순간은 언제인가요?", "type": "textarea", "required": false, "subgroup": "양육 환경", "helper": "(서술형, 2~3문장)"}, {"id": "F9", "label": "양육에 대해 누구의 영향을 가장 많이 받으시나요?", "type": "textarea", "required": false, "subgroup": "양육 환경", "helper": "(예: 친정 어머니, 시어머니, 배우자, 책, 유튜브, 친구, SNS 등) (서술형, 1~2문장)"}, {"id": "F10", "label": "부모님 자신을 위한 자기돌봄의 시간은 일주일에 어느 정도 가지시나요? 어떤 활동인가요?", "type": "textarea", "required": false, "subgroup": "양육 환경", "helper": "(서술형, 1~2문장)"}, {"id": "F11", "label": "부모님 자신은 어린 시절 어떤 아이였다고 기억하시나요? 지금의 자녀와 가장 닮은 점 하나와 가장 다른 점 하나를 꼽아 주세요.", "type": "textarea", "required": false, "subgroup": "부모 자신의 모습", "helper": "(서술형, 3~5문장)"}, {"id": "F12", "label": "새로운 일(이사, 이직, 새 모임, 새 취미 등) 앞에서 부모님 자신은 보통 어떻게 움직이시는 편인가요?", "type": "radio", "required": true, "subgroup": "부모 자신의 모습", "options": ["일단 부딪혀 보는 편", "충분히 알아본 뒤 움직이는 편", "웬만하면 익숙한 쪽을 지키는 편"], "followupTextarea": true, "followupHelper": "최근의 예가 떠오르면 한 줄 더 적어 주세요 (선택)"}, {"id": "F13", "label": "부모님 자신은 한번 시작한 일을 끝까지 밀고 가시는 편인가요, 상황에 따라 빠르게 방향을 바꾸시는 편인가요? 최근의 예를 하나 들어 주세요.", "type": "textarea", "required": false, "subgroup": "부모 자신의 모습", "helper": "(서술형, 2~3문장)"}, {"id": "F14", "label": "자녀의 하루(학교에서 있었던 일, 친구 관계, 그날의 기분)를 평소 어느 정도까지 알고 계신가요? 주로 어떤 방법으로 알게 되시나요?", "type": "textarea", "required": false, "subgroup": "부모 자신의 모습", "helper": "(서술형, 2~3문장)"}, {"id": "F15", "label": "자녀에 대한 기대를 주로 어떻게 전하시나요?", "type": "radio", "required": true, "subgroup": "부모 자신의 모습", "options": ["말로 직접 전한다", "칭찬에 얹어서 전한다", "표정·분위기로 전한다", "거의 드러내지 않는다"], "followupTextarea": true, "followupHelper": "최근에 기대를 전했던 장면을 한 줄 더 적어 주세요 (선택)"}, {"id": "F17", "label": "자녀 때문에 화가 났을 때, 부모님의 화는 주로 어떤 모습인가요?", "type": "radio", "required": true, "subgroup": "부모 자신의 모습", "options": ["목소리가 커진다", "말이 없어진다", "잔소리가 길어진다", "그 자리를 잠시 뜬다"], "followupTextarea": true, "followupHelper": "떠오르는 장면이 있으면 한 줄 더 적어 주세요 (선택)"}, {"id": "F18", "label": "중요한 결정이나 새로운 일을 앞두고 '혹시 잘못되면 어쩌나' 하는 걱정이 부모님을 한참 붙잡았던 최근 순간이 있나요? 그때 어떤 생각이 오갔고, 자녀에게도 비슷한 조심성을 권하시는 편인지 함께 들려주세요.", "type": "textarea", "required": false, "subgroup": "부모 자신의 모습", "helper": "(서술형, 2~3문장)"}, {"id": "F19", "label": "다른 사람(가족·다른 부모·선생님 등)의 반응이나 칭찬·실망에 부모님 자신이 얼마나 신경 쓰이는 편인가요? 누군가의 기분이나 시선 때문에 양육 방식이나 말을 바꾼 최근 장면이 있다면 들려주세요.", "type": "textarea", "required": false, "subgroup": "부모 자신의 모습", "helper": "(서술형, 2~3문장)"}, {"id": "F20", "label": "부모님 자신은 무언가를 스스로 정하고 끝까지 책임지는 편인가요, 아니면 함께 정하거나 누군가에게 맡기고 싶을 때가 있나요? 양육이든 일이든 최근의 예를 하나 들어 주세요.", "type": "textarea", "required": false, "subgroup": "부모 자신의 모습", "helper": "(서술형, 2~3문장)"}, {"id": "F21", "label": "자녀가 스스로 하려던 일(옷 고르기, 숙제 방식, 친구 문제 등)을 원치 않는데도 부모님이 먼저 챙기거나 대신 정해 주게 된 최근 장면이 있나요? 그때 자녀의 반응은 어땠나요?", "type": "textarea", "required": false, "subgroup": "부모 자신의 모습", "helper": "(누구에게나 있는 일입니다. 서술형, 2~3문장)"}, {"id": "F22", "label": "아이가 보는 앞에서 실수했거나 곤란해진 사람(가게 점원, 다른 아이 등)을 대할 때, 너그럽게 넘어가는 편인가요, 옳고 그름을 분명히 짚는 편인가요? 최근 장면 하나를 들려주세요.", "type": "textarea", "required": false, "subgroup": "부모 자신의 모습", "helper": "(어느 쪽도 좋고 나쁨이 없습니다. 서술형, 2~3문장)"}, {"id": "F23", "label": "돈이나 성적처럼 눈에 보이는 것 말고, 자녀가 자라며 꼭 이어받았으면 하는 '보이지 않는 가치'가 있나요(예: 정직, 신앙, 자연을 아끼는 마음, 약자를 돕는 태도)? 평소 그걸 어떻게 전하시는지 장면으로 들려주세요.", "type": "textarea", "required": false, "subgroup": "부모 자신의 모습", "helper": "(서술형, 2~3문장)"}]}, {"id": "G", "title": "자유 서술", "intro": "위 질문에 담기지 못한 이야기를 자유롭게 들려주세요.", "fields": [{"id": "G1", "label": "자녀에 대해 검사자가 꼭 알았으면 하는 것 한 가지를 적어 주세요.", "type": "textarea", "required": true, "helper": "(서술형, 자유 분량)", "minlen": 20}, {"id": "G2", "label": "검사 결과 책자에 어떤 내용이 담기기를 가장 기대하시나요?", "type": "textarea", "required": false, "helper": "(서술형, 자유 분량)"}]}]};
 
 /* ---- 폼 스키마 (성인 본인용) ---- */
 const SCHEMA_SELF = {
@@ -1149,6 +1155,54 @@ async function handleSubmit(e){
   }
 }
 
+/* ---- 인라인 검증: 칸을 떠날 때 그 자리에서 알려 준다 ----
+   제출 시점에만 검사하면 필수 33개를 65분 쓰고 나서 몰아서 튕긴다.
+   마지막 필수(G1)가 74/75 위치라 되돌아갈 거리도 멀다. */
+function validateOneField(f){
+  const fieldEl = document.querySelector('[data-field-id="' + f.id + '"]');
+  if(!fieldEl) return true;
+  const err = document.getElementById('err-' + f.id);
+  const v = fieldValueOf(f);
+  let msg = '';
+  if(f.required && !v){
+    msg = '아직 비어 있어요';
+  } else if(f.minlen && v && v.length < f.minlen){
+    msg = '조금만 더 자세히 적어 주세요 (' + f.minlen + '자 이상, 지금 ' + v.length + '자)';
+  }
+  if(msg){
+    fieldEl.classList.add('invalid');
+    const inp = fieldEl.querySelector('.input,.textarea');
+    if(inp) inp.setAttribute('aria-invalid','true');
+    if(err) err.textContent = msg;
+    return false;
+  }
+  clearFieldError(fieldEl);
+  return true;
+}
+
+function setupInlineValidation(){
+  const byId = {};
+  SCHEMA.parts.forEach(function(p){ p.fields.forEach(function(f){ byId[f.id] = f; }); });
+  document.querySelectorAll('[data-field-id]').forEach(function(fieldEl){
+    const f = byId[fieldEl.getAttribute('data-field-id')];
+    if(!f || (!f.required && !f.minlen)) return;
+    fieldEl.querySelectorAll('.input,.textarea').forEach(function(inp){
+      // 칸을 떠날 때 검사. 단 아직 한 번도 안 건드린 빈 칸은 잔소리하지 않는다.
+      inp.addEventListener('blur', function(){
+        if(!inp.value && !fieldEl.classList.contains('invalid')) return;
+        validateOneField(f);
+      });
+      // 이미 빨간 상태면 고치는 즉시 풀어 준다
+      inp.addEventListener('input', function(){
+        if(fieldEl.classList.contains('invalid')) validateOneField(f);
+      });
+    });
+    fieldEl.querySelectorAll('input[type="radio"]').forEach(function(r){
+      r.addEventListener('change', function(){ validateOneField(f); });
+    });
+  });
+}
+
 /* ---- reveal observer ---- */
 function setupReveal(){
   if(window.matchMedia && window.matchMedia('(prefers-reduced-motion: reduce)').matches){
@@ -1159,7 +1213,10 @@ function setupReveal(){
     entries.forEach(en => {
       if(en.isIntersecting){ en.target.classList.add('in'); io.unobserve(en.target); }
     });
-  }, {threshold:.12});
+  }, {threshold:0, rootMargin:'0px 0px -8% 0px'});
+  // threshold 는 반드시 0 이어야 한다. 비율 방식(.12 등)을 쓰면 뷰포트보다 큰 요소가
+  // 그 비율을 영원히 못 채워 나타나지 않는다 — F파트 카드 6505px vs 폰 700px = 최대 10.8%
+  // 였고, 실제로 06 파트 전체가 투명한 채로 남는 사고가 있었다(2026-07-28).
   document.querySelectorAll('.reveal').forEach(el => io.observe(el));
 }
 
@@ -1212,6 +1269,7 @@ function startForm(type){
   updateProgress();
   updateCurrentPart();
   setupReveal();
+  setupInlineValidation();
 
   // 입력 이벤트 → 자동저장(디바운스) + 진행률
   const form = $('#interviewForm');
